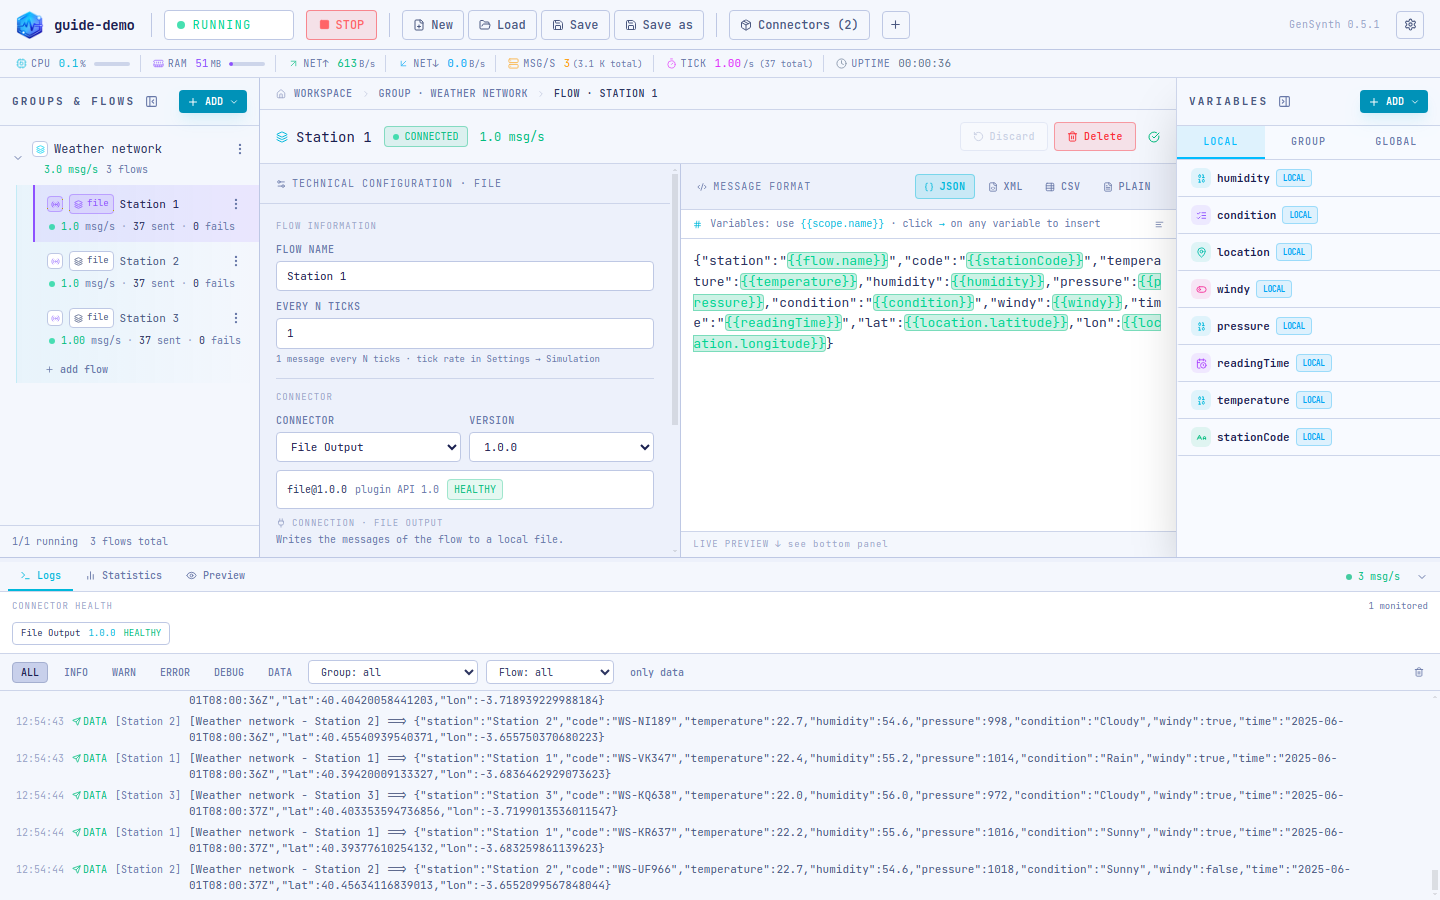
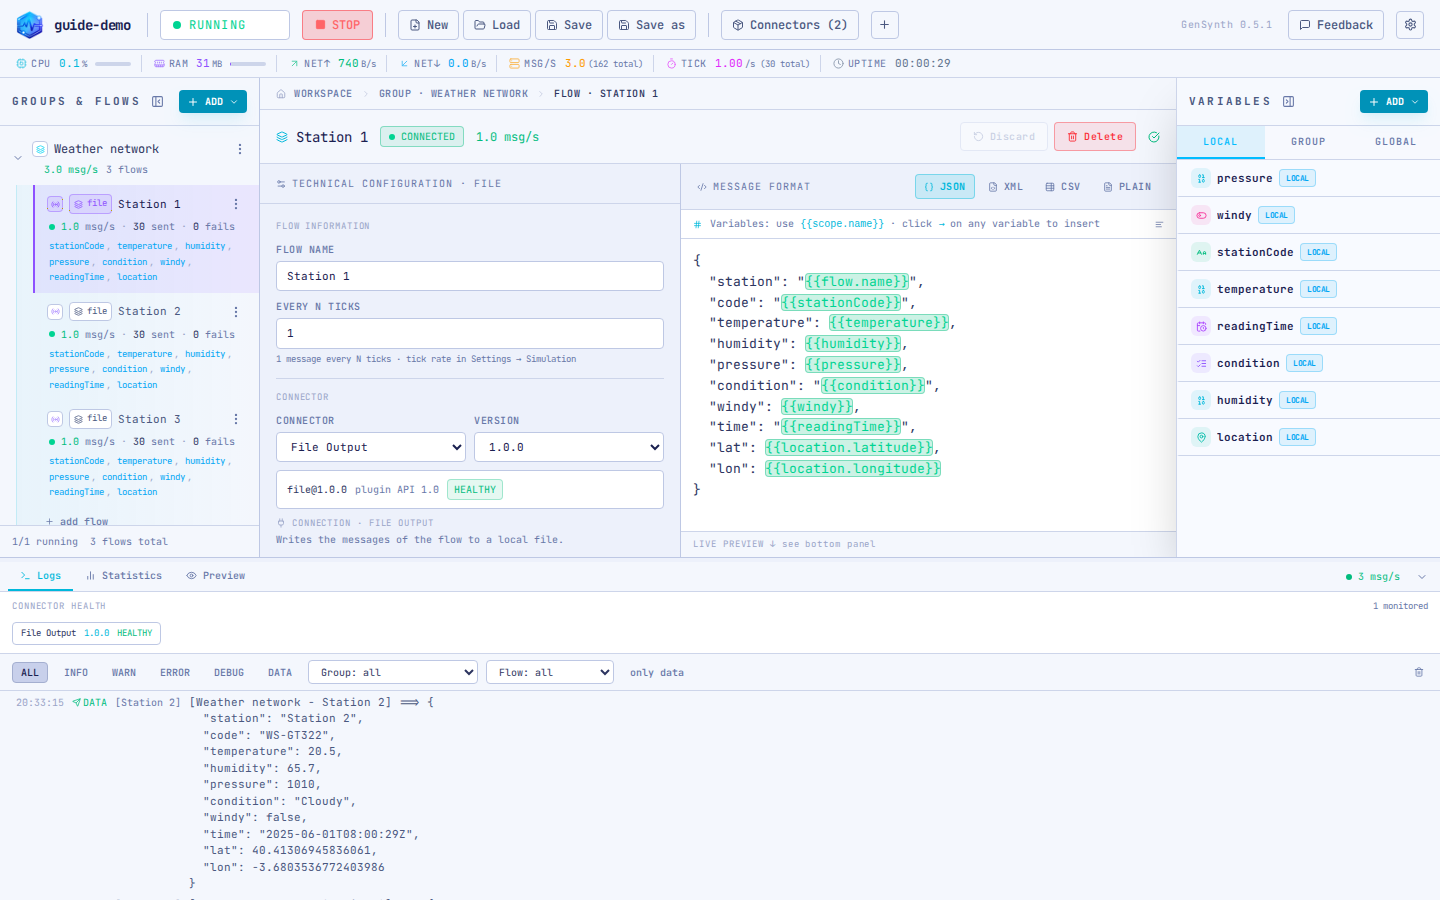
docs: update the user guide for 0.5.2

diff --git a/USER_GUIDE.md b/USER_GUIDE.md
@@ -11,7 +11,7 @@ a **connector**: GenSynth writes to files out of the box, and connector plugins 
 technologies. Use it whenever you need realistic, repeatable data to develop, test or demonstrate a
 system that consumes events.
 
-This guide covers GenSynth **0.5.1**. For a quick overview, see the [README](README.md).
+This guide covers GenSynth **0.5.2**. For a quick overview, see the [README](README.md).
 
 ## Contents
 
@@ -82,9 +82,10 @@ To update, install the new version over the old one: your plugins and settings a
 | What | Installed application | Built from source |
 |---|---|---|
 | Plugins, autosave and embedded browser | Windows: `%LOCALAPPDATA%\GenSynth`<br>Linux: `~/.local/share/gensynth`<br>macOS: `~/Library/Application Support/GenSynth` | `core/` |
-| Generated files (`OUTPUT_FILES_<date>`) | `~/GenSynth` (your user folder) | `core/` |
+| Generated files (`OUTPUT_FILES_<date>`) | `~/GenSynth` in your user folder (on Windows, `C:\Users\<you>\GenSynth`) | `core/` |
 
-Uninstalling GenSynth does not delete these folders.
+You can choose another folder for the generated files in **Settings → Save & Storage → Output
+folder** (see [Settings](#settings)). Uninstalling GenSynth does not delete these folders.
 
 ### Optional: the RabbitMQ connector
 
@@ -152,7 +153,8 @@ It takes about five minutes.
 
 3. **Create the variables of the station.** In the right panel, select the **LOCAL** tab, click
    **+ ADD**, choose the type and fill in the dialog. Set **Target Flow Assignment** to
-   *Station 1*. Create:
+   *Station 1* and click **Create Variable**: the editor of the new variable opens in the centre,
+   ready to configure (to come back to it later, click the variable in the right panel). Create:
 
    | Name | Type | Configuration (Visual Editor) |
    |---|---|---|
@@ -161,18 +163,26 @@ It takes about five minutes.
    | `condition` | List | Strategy **Weighted Random**, literal items `Sunny` (weight 5), `Cloudy` (3), `Rain` (1) |
    | `readingTime` | Temporal | **Advance Mode** = **Simulated Step**, **Start Date (ISO)** `2026-01-01T00:00:00Z`, **Step Duration (ms)** `60000`, **Format Preset** `UNIX_TIMESTAMP` |
 
-4. **Write the message format.** Select the flow and type this in **Message Format** (type `{{`
-   to get suggestions):
+4. **Write the message format.** Select *Station 1* in the left panel and write this in
+   **Message Format** (you can also paste it as is):
 
    ```json
    {
      "station": "{{flow.name}}",
-     "time": {{readingTime}},
-     "temperature": {{temperature}},
-     "humidity": {{humidity}},
-     "condition": "{{condition}}"
+     "time": {{local.readingTime}},
+     "temperature": {{local.temperature}},
+     "humidity": {{local.humidity}},
+     "condition": "{{local.condition}}"
    }
    ```
+
+   To insert a variable without typing its name, type `{{`: a list of your variables opens under
+   the cursor. Keep typing to filter it (`temp`), move with the arrow keys and press `Enter` (or
+   `Tab`, or click). GenSynth writes the whole placeholder, closing braces included, with the
+   scope in front (`local.`): `{{local.temperature}}` and `{{temperature}}` give the same value
+   here (see [Scopes](#scopes)). Pick the entry without a dot: `readingTime.hour` and the like are
+   [sub-properties](#writing-the-template). The ↗ button of a variable in the right panel inserts
+   it at the cursor too.
 
    `{{flow.name}}` is replaced by the name of the flow, so every station sends its own ID.
    Text values go between quotes; numbers and booleans do not.
@@ -192,9 +202,15 @@ It takes about five minutes.
    message of a flow, or **Logs** to see every flow (filter with **only data**).
 
 8. **Stop and find the files.** Click **STOP**. The messages are in
-   `~/GenSynth/OUTPUT_FILES_<date>/Weather_network/Station_1.txt` (one file per station).
+   `~/GenSynth/OUTPUT_FILES_<date>/Weather_network/Station_1.txt` (one file per station); on
+   Windows, `~` is your user folder, `C:\Users\<you>`. The **Logs** show the exact folder when you
+   click START (*Output folder of this session: …*). To write the files somewhere else, change
+   **Settings → Save & Storage → Output folder**.
 
-9. **Save the project.** Click **Save as** and choose a name such as `weather.gsynth`.
+9. **Save the project.** Click **Save as** and choose a name such as `weather.gsynth`, in a folder
+   of yours such as *Documents*. Not in the folder where GenSynth is installed
+   (`C:\Program Files\GenSynth` on Windows): it is read-only, and GenSynth asks for another
+   folder.
 
 ### Sending to RabbitMQ
 
@@ -207,8 +223,9 @@ It takes about five minutes.
 2. **Install the plugin.** Click **+** (Import Plugin) in the top bar, drop
    `rabbitmq-connector-1.0.0.jar`, wait for the validation and click **Import Validated Plugin →
    INSTALL & RESTART**. GenSynth restarts (see [Importing a plugin](#importing-a-plugin)).
-3. **Point the flows to RabbitMQ.** In each flow, change **Connector** to **RabbitMQ** and fill in
-   the fields. For a local broker only three fields need a value:
+3. **Point the flows to RabbitMQ.** Select *Station 1* in the left panel. In the flow settings, in
+   the centre of the window (above **Message Format**), change **Connector** to **RabbitMQ** and
+   fill in the fields. For a local broker only three fields need a value:
 
    | Field | Value |
    |---|---|
@@ -540,7 +557,7 @@ GenSynth includes one connector, always available, that writes the messages of e
 | Field | What it does | Default |
 |---|---|---|
 | **File format** | *JSON array*, *Text* (one message per line), *XML dataset* or *CSV* (one message per line). | JSON array |
-| **Output directory** | Optional. When empty, files go to the folder of the current session, `OUTPUT_FILES_<date>/` (see [Where GenSynth keeps its files](#where-gensynth-keeps-its-files)). A sub-folder with the group name is always added. | Session folder |
+| **Output directory** | Optional. When empty, files go to the folder of the current session, `OUTPUT_FILES_<date>/`, inside the **Output folder** of [Settings](#settings) (see [Where GenSynth keeps its files](#where-gensynth-keeps-its-files)). A sub-folder with the group name is always added. | Session folder |
 | **File name** | Optional. When empty, the flow name is used. The extension is added automatically. | Flow name |
 
 For example, with the Text format a flow *Sensor 1* in group *Plant A* writes to
@@ -658,6 +675,7 @@ this device* or *Saved with the project*.
 | **Appearance** (device) | **Dark mode** | Light or dark theme. | Light |
 | **Save & Storage** (device) | **Auto-save** | Saves the open project file automatically while there are changes. It starts working once the project has been saved to a file. | Off |
 | | **Interval (seconds)** | Time between automatic saves. | 30 (5–3600) |
+| | **Output folder** | Where every **START** creates its `OUTPUT_FILES_<date>` folder. Type a full path or click **Browse**; **Default** goes back to the default folder. It must be a folder you can write in; the change applies from the next START. The **Output directory** of a File Output flow overrides it. | `~/GenSynth` |
 | **Simulation** (project) | **Tick mode** | **Fixed period** or **As Fast As You Can**. | Fixed period |
 | | Period value and unit | Length of a tick. | 1 Seconds |
 
@@ -691,7 +709,8 @@ Variables generate the values of your messages. GenSynth has six types:
 
 ### Creating a variable
 
-In the right panel, choose the scope tab, click **+ ADD** and pick the type.
+In the right panel, choose the scope tab, click **+ ADD** and pick the type. After **Create
+Variable**, the editor of the new variable opens in the centre of the window.
 
 ![Create variable dialog](docs-assets/user-guide/13-create-variable-dialog.png)
 
@@ -1495,15 +1514,15 @@ Clone the whole group to replicate a site with all its devices.
 
 ## Feedback
 
-The **Feedback** button in the top bar opens a short anonymous form, in Spanish, in your web
+The **Feedback** button in the top bar opens a short form, in Spanish, in your web
 browser. Its first question asks what you want to do:
 
-- **Report a bug** right away: what happened and how to repeat it. To add a screenshot, upload it
-  to Google Drive or Imgur and paste the link (shared so that anyone with the link can see it);
-  the form asks for no account, so it stays anonymous.
+- **Report a bug** right away: what happened and how to repeat it. You can attach up to 5
+  screenshots.
 - **Give your opinion** of the tool after using it for a while.
 
-It only takes a couple of minutes, and it helps to improve the tool.
+The form collects your email address, used only to contact you if a bug you reported needs
+more detail. It only takes a couple of minutes, and it helps to improve the tool.
 
 ---
 
@@ -1553,5 +1572,7 @@ It only takes a couple of minutes, and it helps to improve the tool.
 | Values look wrong (all devices share a sequence, values jump, a placeholder stays as `{{…}}`) | Check the **scope** of the variable (per-device values must be LOCAL), the name in the template (a typo leaves the placeholder unchanged) and the Preview of the flow. |
 | A variable sends a value that does not match its pattern | Check its **Rules** tab: while a rule matches, the override configuration is used instead. |
 | The JSON received is invalid | Text values need quotes (`"{{name}}"`); numbers with prefix, suffix or padding are text too. |
+| Saving says *You do not have permission to write in …* | The folder is read-only for your user, like the installation folder (`C:\Program Files\GenSynth`). Save the project in a folder of yours, such as *Documents*. Spaces in the path are not a problem. |
+| I cannot find the generated files | The **Logs** show the folder of each session when you click START. By default it is `GenSynth` in your user folder; change it in **Settings → Save & Storage → Output folder**. |
 
 Problems when building from source are covered in [CONTRIBUTING.md](CONTRIBUTING.md#troubleshooting).
